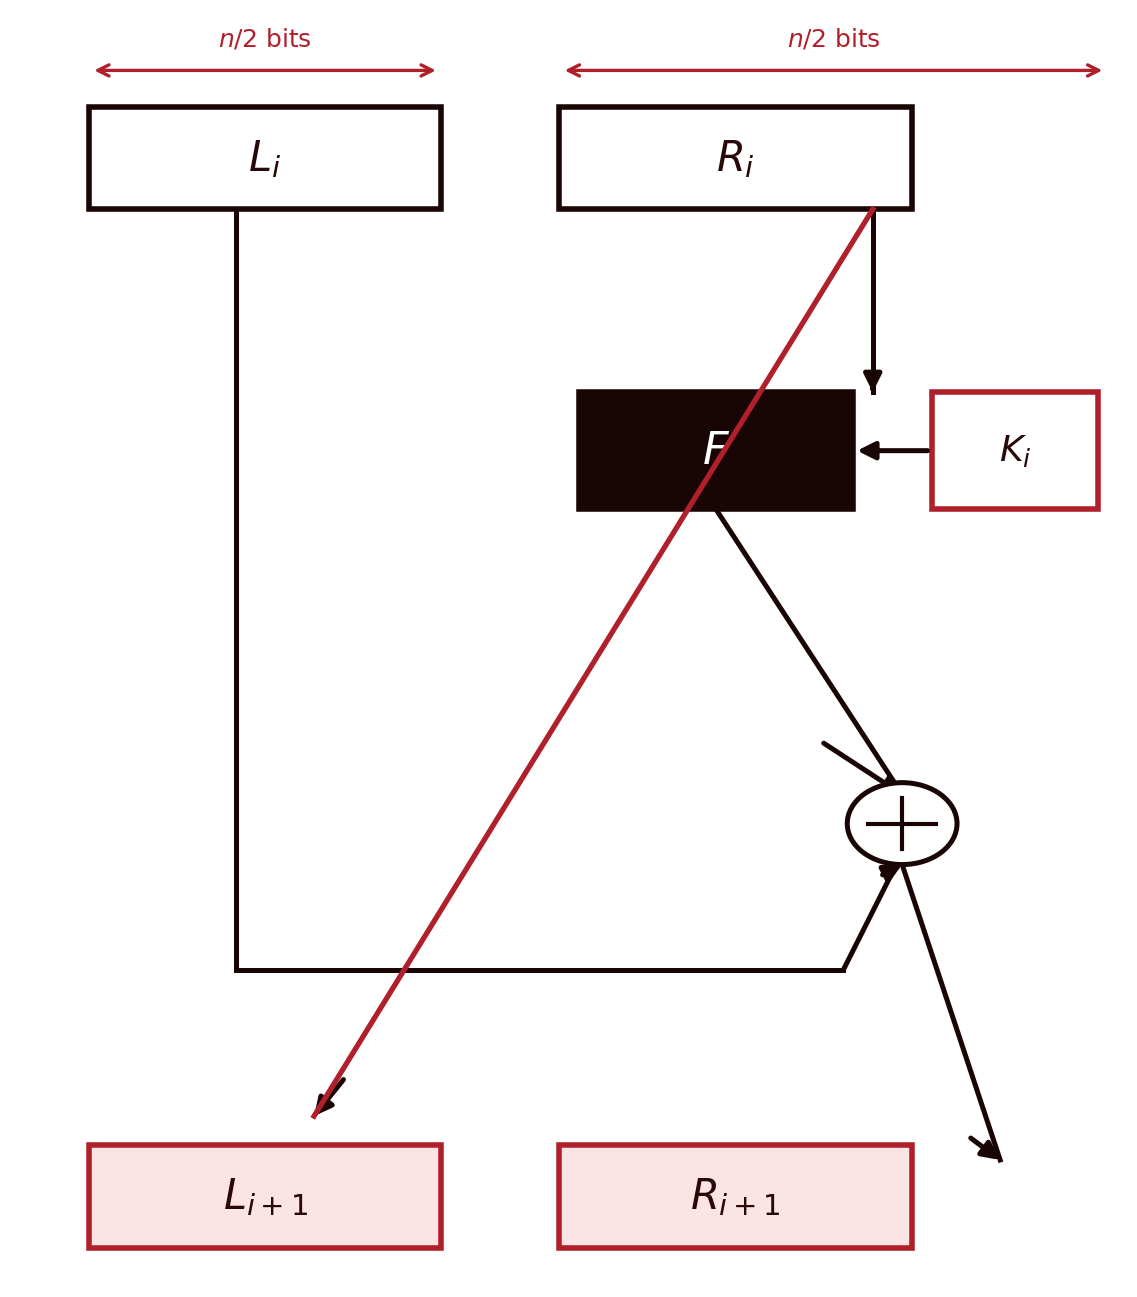
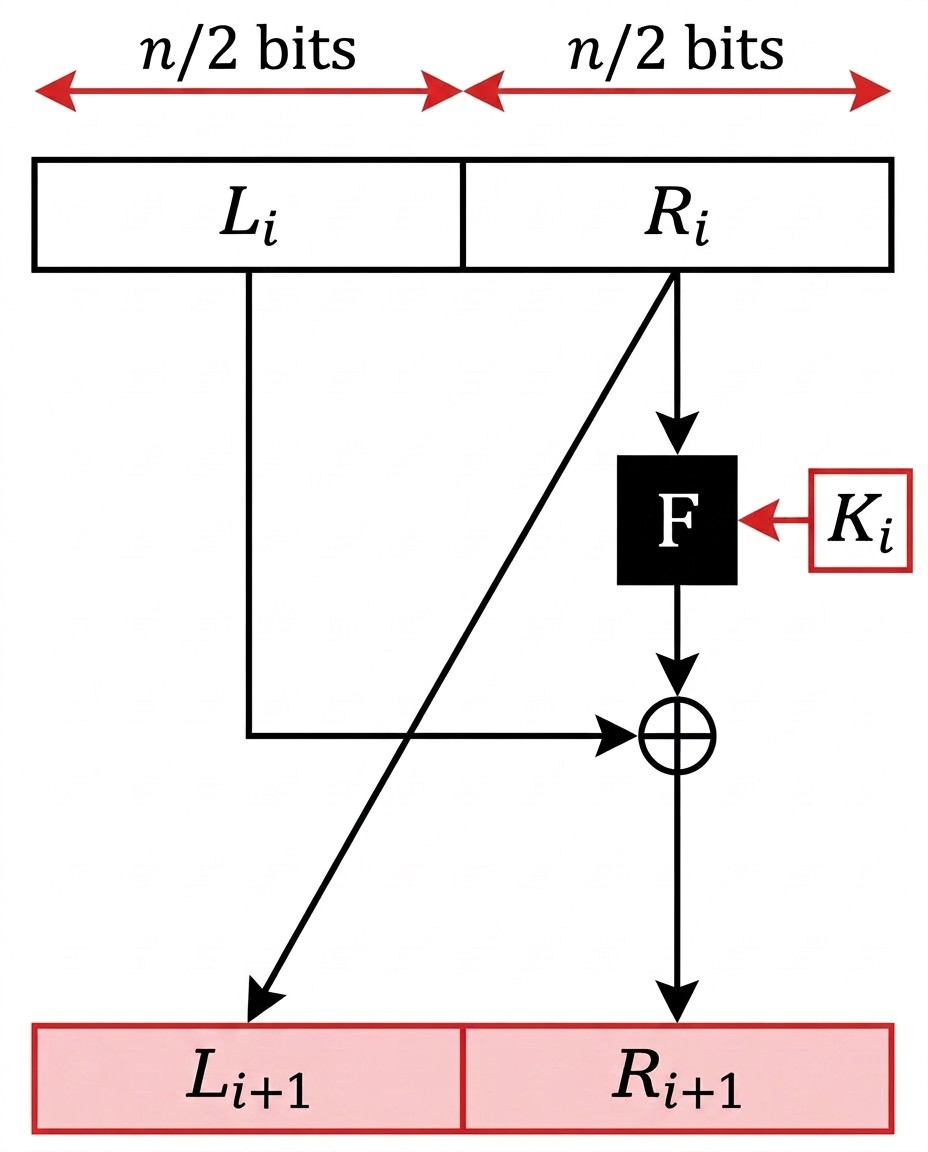
Substitui a figura da função F do DES no Cap02 (PT e EN)
fig-des-funcao-f.png era uma imagem do Wikimedia Commons partilhada
entre PT e EN. Substituída por duas versões próprias no mesmo estilo
do resto do capítulo (E, sub-chave, S1-S8, P), extraídas e recortadas
de um ficheiro-fonte maior fornecido, com fundo branco sólido.
Remove a atribuição ao Wikimedia Commons, já não aplicável.

Actualiza também fig-feistel-ronda.png (esquema de uma ronda) para
uma versão mais nítida no mesmo estilo carmesim do livro, partilhada
por PT e EN (é language-neutral, só símbolos).

Claude-Session: https://claude.ai/code/session_01QW9kmj6MBjUNiXKrPrkVLL

Changed region(s): [[0.0312, 0.0, 1.0, 1.0], [0.4688, 0.5, 0.5312, 0.5938], [0.8125, 0.7188, 0.8438, 0.8125]]

diff --git a/docs/en/capitulos/cap02.html b/docs/en/capitulos/cap02.html
@@ -459,10 +459,10 @@ Figure&nbsp;2.2: Encryption and decryption in a 16-round Feistel network (the nu
 <div id="fig-02-des-funcao-f" class="quarto-float quarto-figure quarto-figure-center anchored">
 <figure class="quarto-float quarto-float-fig figure">
 <div aria-describedby="fig-02-des-funcao-f-caption-0ceaefa1-69ba-4598-a22c-09a6ac19f8ca">
-<img src="../assets/images/fig-des-funcao-f.png" class="img-fluid figure-img" style="width:75.0%">
+<img src="../assets/images/fig-des-funcao-f-en.png" class="img-fluid figure-img" style="width:75.0%">
 </div>
 <figcaption class="quarto-float-caption-bottom quarto-float-caption quarto-float-fig" id="fig-02-des-funcao-f-caption-0ceaefa1-69ba-4598-a22c-09a6ac19f8ca">
-Figure&nbsp;2.3: The DES function <span class="math inline">\(F\)</span>: the 32-bit half is expanded (E) to 48 bits, combined by XOR with the round subkey, split into eight 6-bit groups that pass through the respective S-boxes (S1–S8, each returning 4 non-linear output bits), and finally rearranged by a permutation (P). Source: Wikimedia Commons, public domain.
+Figure&nbsp;2.3: The DES function <span class="math inline">\(F\)</span>: the 32-bit half is expanded (E) to 48 bits, combined by XOR with the round subkey, split into eight 6-bit groups that pass through the respective S-boxes (S1–S8, each returning 4 non-linear output bits), and finally rearranged by a permutation (P).
 </figcaption>
 </figure>
 </div>
@@ -1291,7 +1291,7 @@ window.document.addEventListener("DOMContentLoaded", function (event) {
 <span id="cb3-148"><a href="#cb3-148" aria-hidden="true" tabindex="-1"></a></span>
 <span id="cb3-149"><a href="#cb3-149" aria-hidden="true" tabindex="-1"></a>The overall structure of DES is, therefore, exactly the Feistel network already described in the previous section, with $n=64$ and 16 rounds. What is specific to DES, and does not follow from the Feistel structure itself, is the internal construction of the function $F$:</span>
 <span id="cb3-150"><a href="#cb3-150" aria-hidden="true" tabindex="-1"></a></span>
-<span id="cb3-151"><a href="#cb3-151" aria-hidden="true" tabindex="-1"></a><span class="al">![The DES function $F$: the 32-bit half is expanded (E) to 48 bits, combined by XOR with the round subkey, split into eight 6-bit groups that pass through the respective S-boxes (S1–S8, each returning 4 non-linear output bits), and finally rearranged by a permutation (P). Source: Wikimedia Commons, public domain.](../assets/images/fig-des-funcao-f.png)</span>{#fig-02-des-funcao-f width=75%}</span>
+<span id="cb3-151"><a href="#cb3-151" aria-hidden="true" tabindex="-1"></a><span class="al">![The DES function $F$: the 32-bit half is expanded (E) to 48 bits, combined by XOR with the round subkey, split into eight 6-bit groups that pass through the respective S-boxes (S1–S8, each returning 4 non-linear output bits), and finally rearranged by a permutation (P). ](../assets/images/fig-des-funcao-f-en.png)</span>{#fig-02-des-funcao-f width=75%}</span>
 <span id="cb3-152"><a href="#cb3-152" aria-hidden="true" tabindex="-1"></a></span>
 <span id="cb3-153"><a href="#cb3-153" aria-hidden="true" tabindex="-1"></a><span class="fu">### The strength of DES {#sec-02-des-forca}</span></span>
 <span id="cb3-154"><a href="#cb3-154" aria-hidden="true" tabindex="-1"></a></span>

diff --git a/docs/capitulos/cap02.html b/docs/capitulos/cap02.html
@@ -461,7 +461,7 @@ Figura&nbsp;2.2: Cifragem e decifragem numa rede de Feistel de 16 rondas (o núm
 <img src="../assets/images/fig-des-funcao-f.png" class="img-fluid figure-img" style="width:75.0%">
 </div>
 <figcaption class="quarto-float-caption-bottom quarto-float-caption quarto-float-fig" id="fig-02-des-funcao-f-caption-0ceaefa1-69ba-4598-a22c-09a6ac19f8ca">
-Figura&nbsp;2.3: A função <span class="math inline">\(F\)</span> do DES: a metade de 32 bits é expandida (E) para 48 bits, combinada por XOR com a subchave da ronda, dividida em oito grupos de 6 bits que atravessam as respectivas S-boxes (S1–S8, cada uma devolvendo 4 bits de saída não linear), e finalmente reorganizada por uma permutação (P). Fonte: Wikimedia Commons, domínio público.
+Figura&nbsp;2.3: A função <span class="math inline">\(F\)</span> do DES: a metade de 32 bits é expandida (E) para 48 bits, combinada por XOR com a subchave da ronda, dividida em oito grupos de 6 bits que atravessam as respectivas S-boxes (S1–S8, cada uma devolvendo 4 bits de saída não linear), e finalmente reorganizada por uma permutação (P).
 </figcaption>
 </figure>
 </div>
@@ -1290,7 +1290,7 @@ window.document.addEventListener("DOMContentLoaded", function (event) {
 <span id="cb3-148"><a href="#cb3-148" aria-hidden="true" tabindex="-1"></a></span>
 <span id="cb3-149"><a href="#cb3-149" aria-hidden="true" tabindex="-1"></a>A estrutura geral do DES é, portanto, exactamente a rede de Feistel já descrita na secção anterior, com $n=64$ e 16 rondas. O que é específico do DES, e não decorre da estrutura de Feistel em si, é a construção interna da função $F$:</span>
 <span id="cb3-150"><a href="#cb3-150" aria-hidden="true" tabindex="-1"></a></span>
-<span id="cb3-151"><a href="#cb3-151" aria-hidden="true" tabindex="-1"></a><span class="al">![A função $F$ do DES: a metade de 32 bits é expandida (E) para 48 bits, combinada por XOR com a subchave da ronda, dividida em oito grupos de 6 bits que atravessam as respectivas S-boxes (S1–S8, cada uma devolvendo 4 bits de saída não linear), e finalmente reorganizada por uma permutação (P). Fonte: Wikimedia Commons, domínio público.](../assets/images/fig-des-funcao-f.png)</span>{#fig-02-des-funcao-f width=75%}</span>
+<span id="cb3-151"><a href="#cb3-151" aria-hidden="true" tabindex="-1"></a><span class="al">![A função $F$ do DES: a metade de 32 bits é expandida (E) para 48 bits, combinada por XOR com a subchave da ronda, dividida em oito grupos de 6 bits que atravessam as respectivas S-boxes (S1–S8, cada uma devolvendo 4 bits de saída não linear), e finalmente reorganizada por uma permutação (P). ](../assets/images/fig-des-funcao-f.png)</span>{#fig-02-des-funcao-f width=75%}</span>
 <span id="cb3-152"><a href="#cb3-152" aria-hidden="true" tabindex="-1"></a></span>
 <span id="cb3-153"><a href="#cb3-153" aria-hidden="true" tabindex="-1"></a><span class="fu">### A força do DES {#sec-02-des-forca}</span></span>
 <span id="cb3-154"><a href="#cb3-154" aria-hidden="true" tabindex="-1"></a></span>
